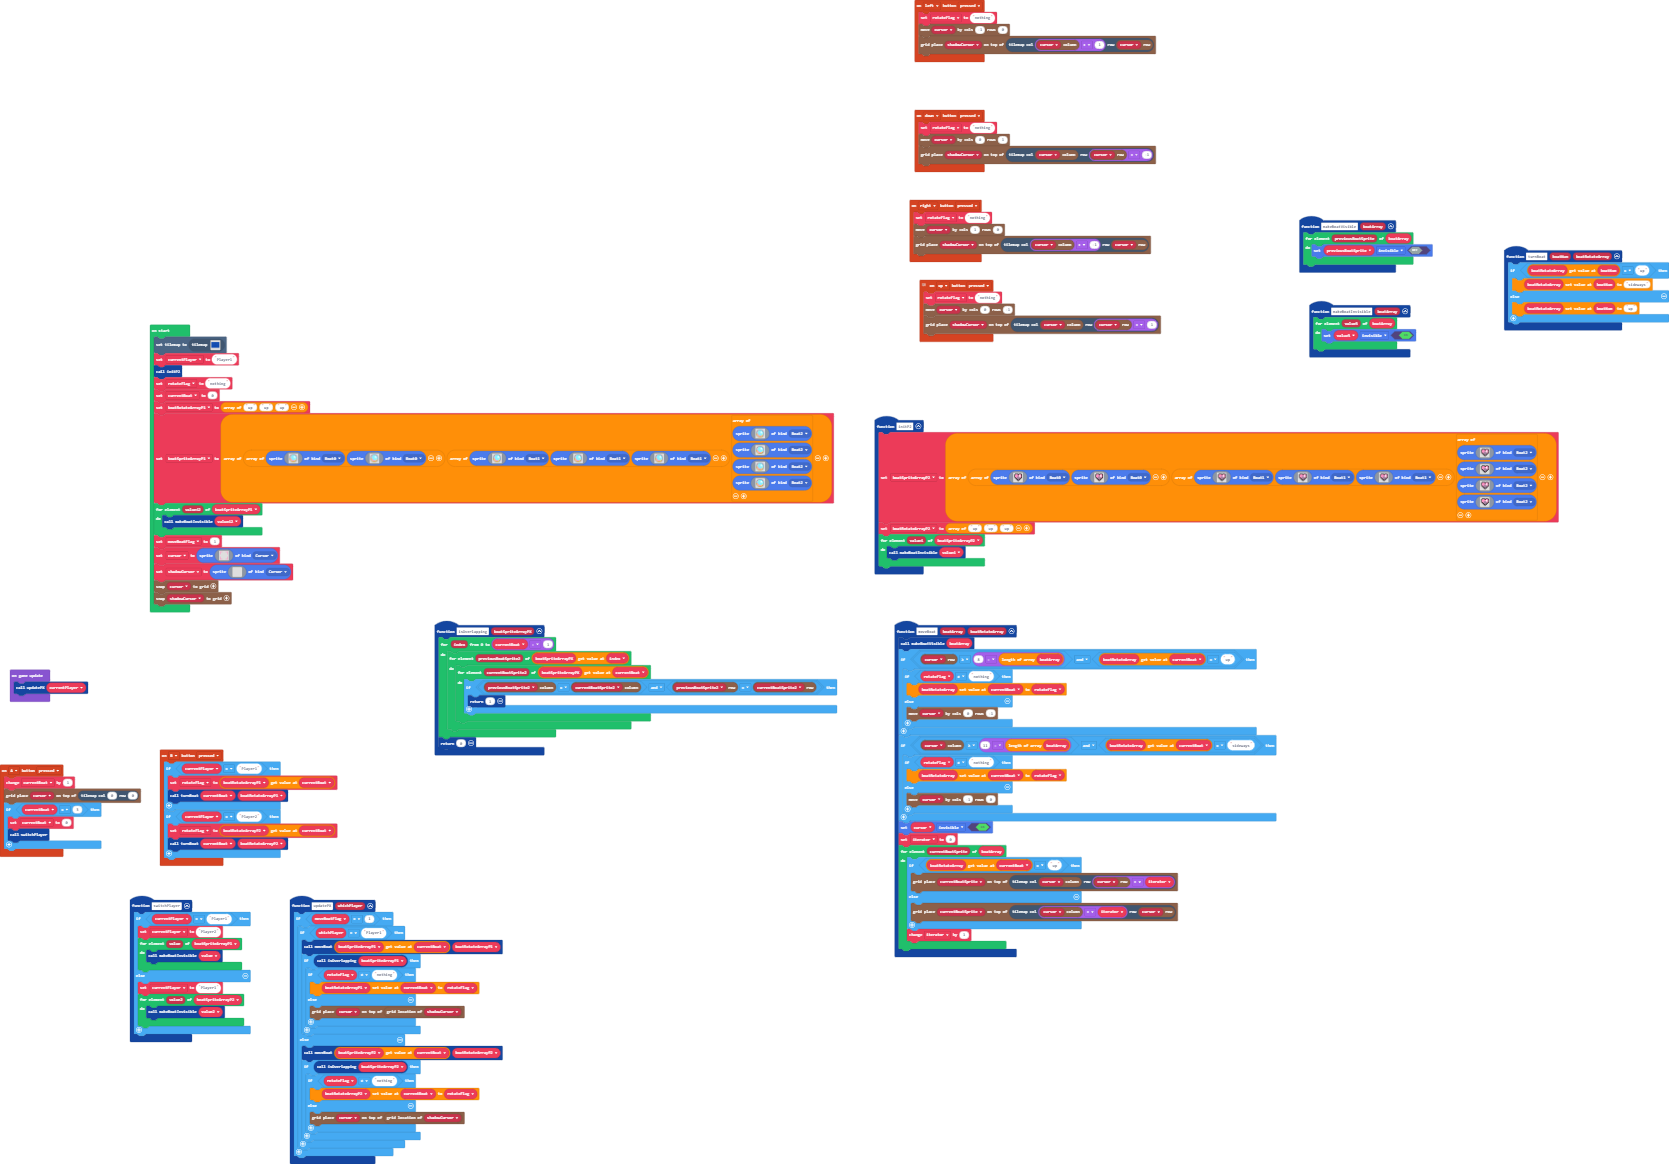
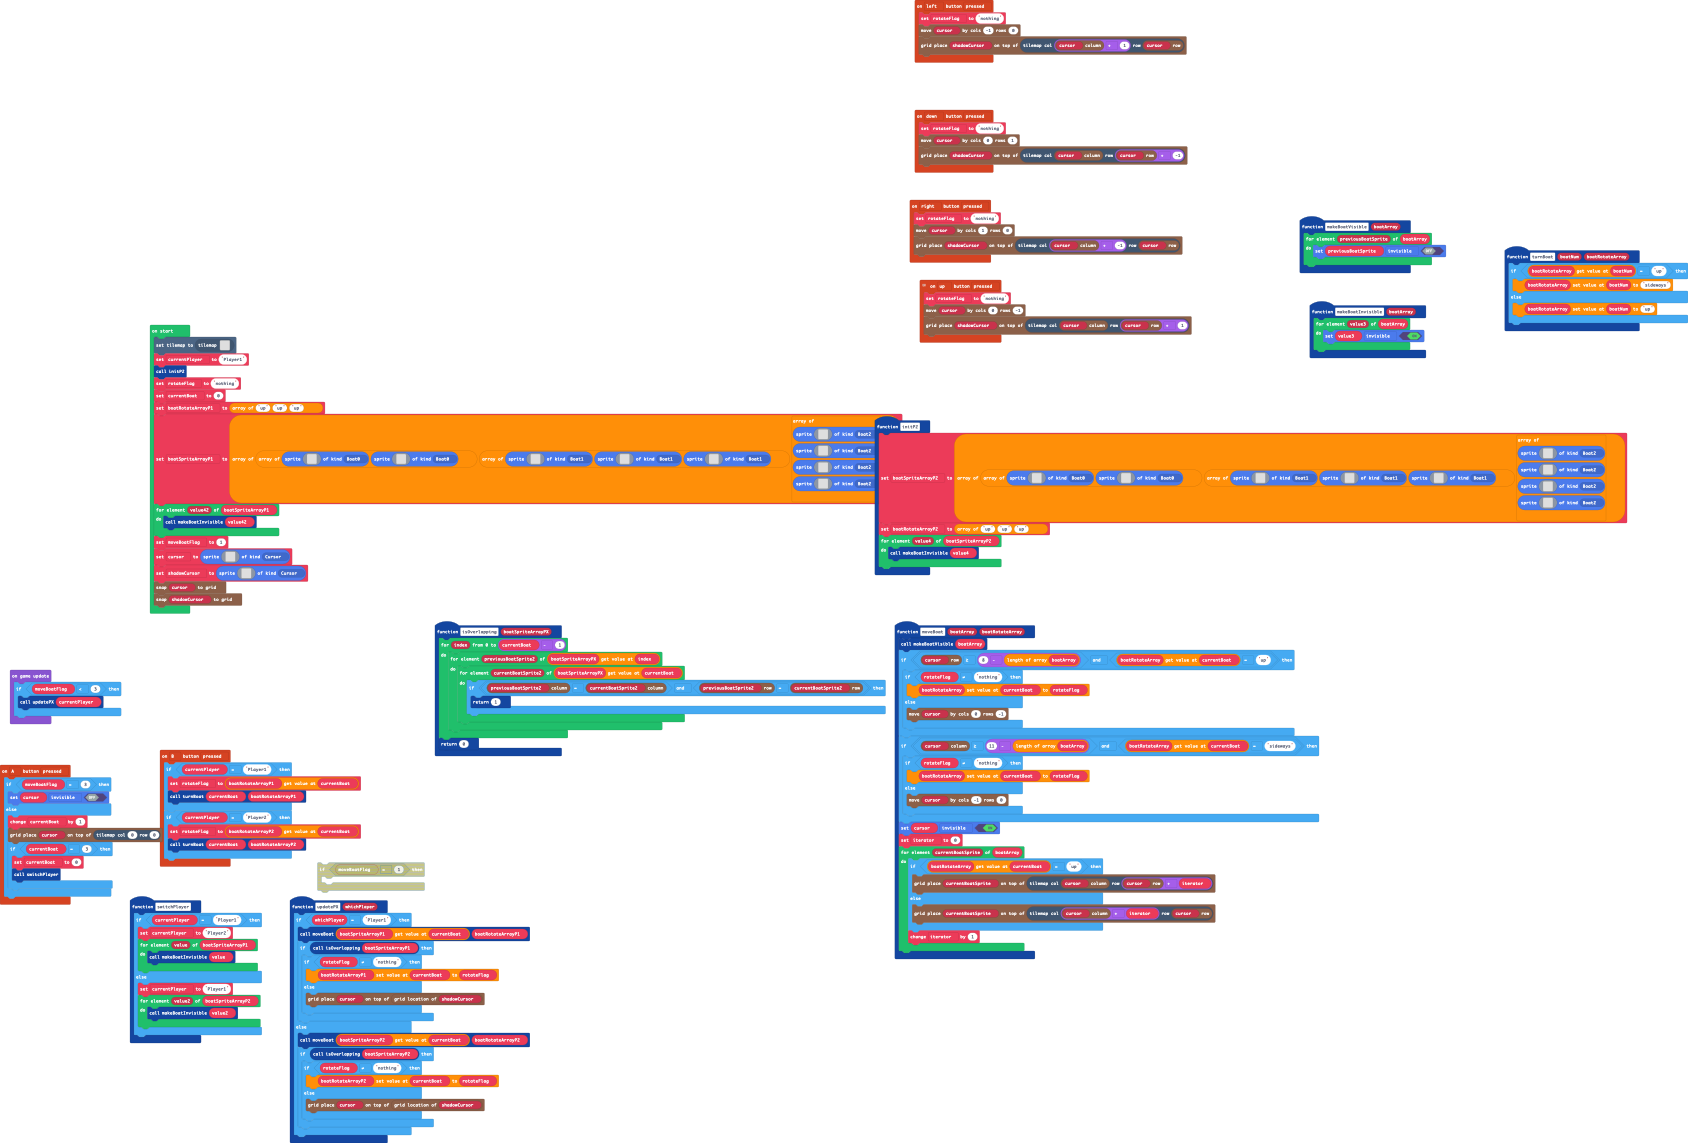
Update main.blocks, main.ts

diff --git a/main.ts b/main.ts
@@ -11,24 +11,22 @@ controller.up.onEvent(ControllerButtonEvent.Pressed, function () {
     grid.place(shadowCursor, tiles.getTileLocation(grid.spriteCol(cursor), grid.spriteRow(cursor) + 1))
 })
 function updatePX (whichPlayer: string) {
-    if (moveBoatFlag == 1) {
-        if (whichPlayer == "Player1") {
-            moveBoat(boatSpriteArrayP1[currentBoat], boatRotateArrayP1)
-            if (isOverlapping(boatSpriteArrayP1)) {
-                if (rotateFlag != "nothing") {
-                    boatRotateArrayP1[currentBoat] = rotateFlag
-                } else {
-                    grid.place(cursor, grid.getLocation(shadowCursor))
-                }
+    if (whichPlayer == "Player1") {
+        moveBoat(boatSpriteArrayP1[currentBoat], boatRotateArrayP1)
+        if (isOverlapping(boatSpriteArrayP1)) {
+            if (rotateFlag != "nothing") {
+                boatRotateArrayP1[currentBoat] = rotateFlag
+            } else {
+                grid.place(cursor, grid.getLocation(shadowCursor))
             }
-        } else {
-            moveBoat(boatSpriteArrayP2[currentBoat], boatRotateArrayP2)
-            if (isOverlapping(boatSpriteArrayP2)) {
-                if (rotateFlag != "nothing") {
-                    boatRotateArrayP2[currentBoat] = rotateFlag
-                } else {
-                    grid.place(cursor, grid.getLocation(shadowCursor))
-                }
+        }
+    } else {
+        moveBoat(boatSpriteArrayP2[currentBoat], boatRotateArrayP2)
+        if (isOverlapping(boatSpriteArrayP2)) {
+            if (rotateFlag != "nothing") {
+                boatRotateArrayP2[currentBoat] = rotateFlag
+            } else {
+                grid.place(cursor, grid.getLocation(shadowCursor))
             }
         }
     }
@@ -49,11 +47,15 @@ function makeBoatVisible (boatArray: Sprite[]) {
     }
 }
 controller.A.onEvent(ControllerButtonEvent.Pressed, function () {
-    currentBoat += 1
-    grid.place(cursor, tiles.getTileLocation(0, 0))
-    if (currentBoat == 3) {
-        currentBoat = 0
-        switchPlayer()
+    if (moveBoatFlag == 3) {
+        cursor.setFlag(SpriteFlag.Invisible, false)
+    } else {
+        currentBoat += 1
+        grid.place(cursor, tiles.getTileLocation(0, 0))
+        if (currentBoat == 3) {
+            currentBoat = 0
+            switchPlayer()
+        }
     }
 })
 controller.left.onEvent(ControllerButtonEvent.Pressed, function () {
@@ -527,5 +529,7 @@ shadowCursor = sprites.create(img`
 grid.snap(cursor)
 grid.snap(shadowCursor)
 game.onUpdate(function () {
-    updatePX(currentPlayer)
+    if (moveBoatFlag < 3) {
+        updatePX(currentPlayer)
+    }
 })
